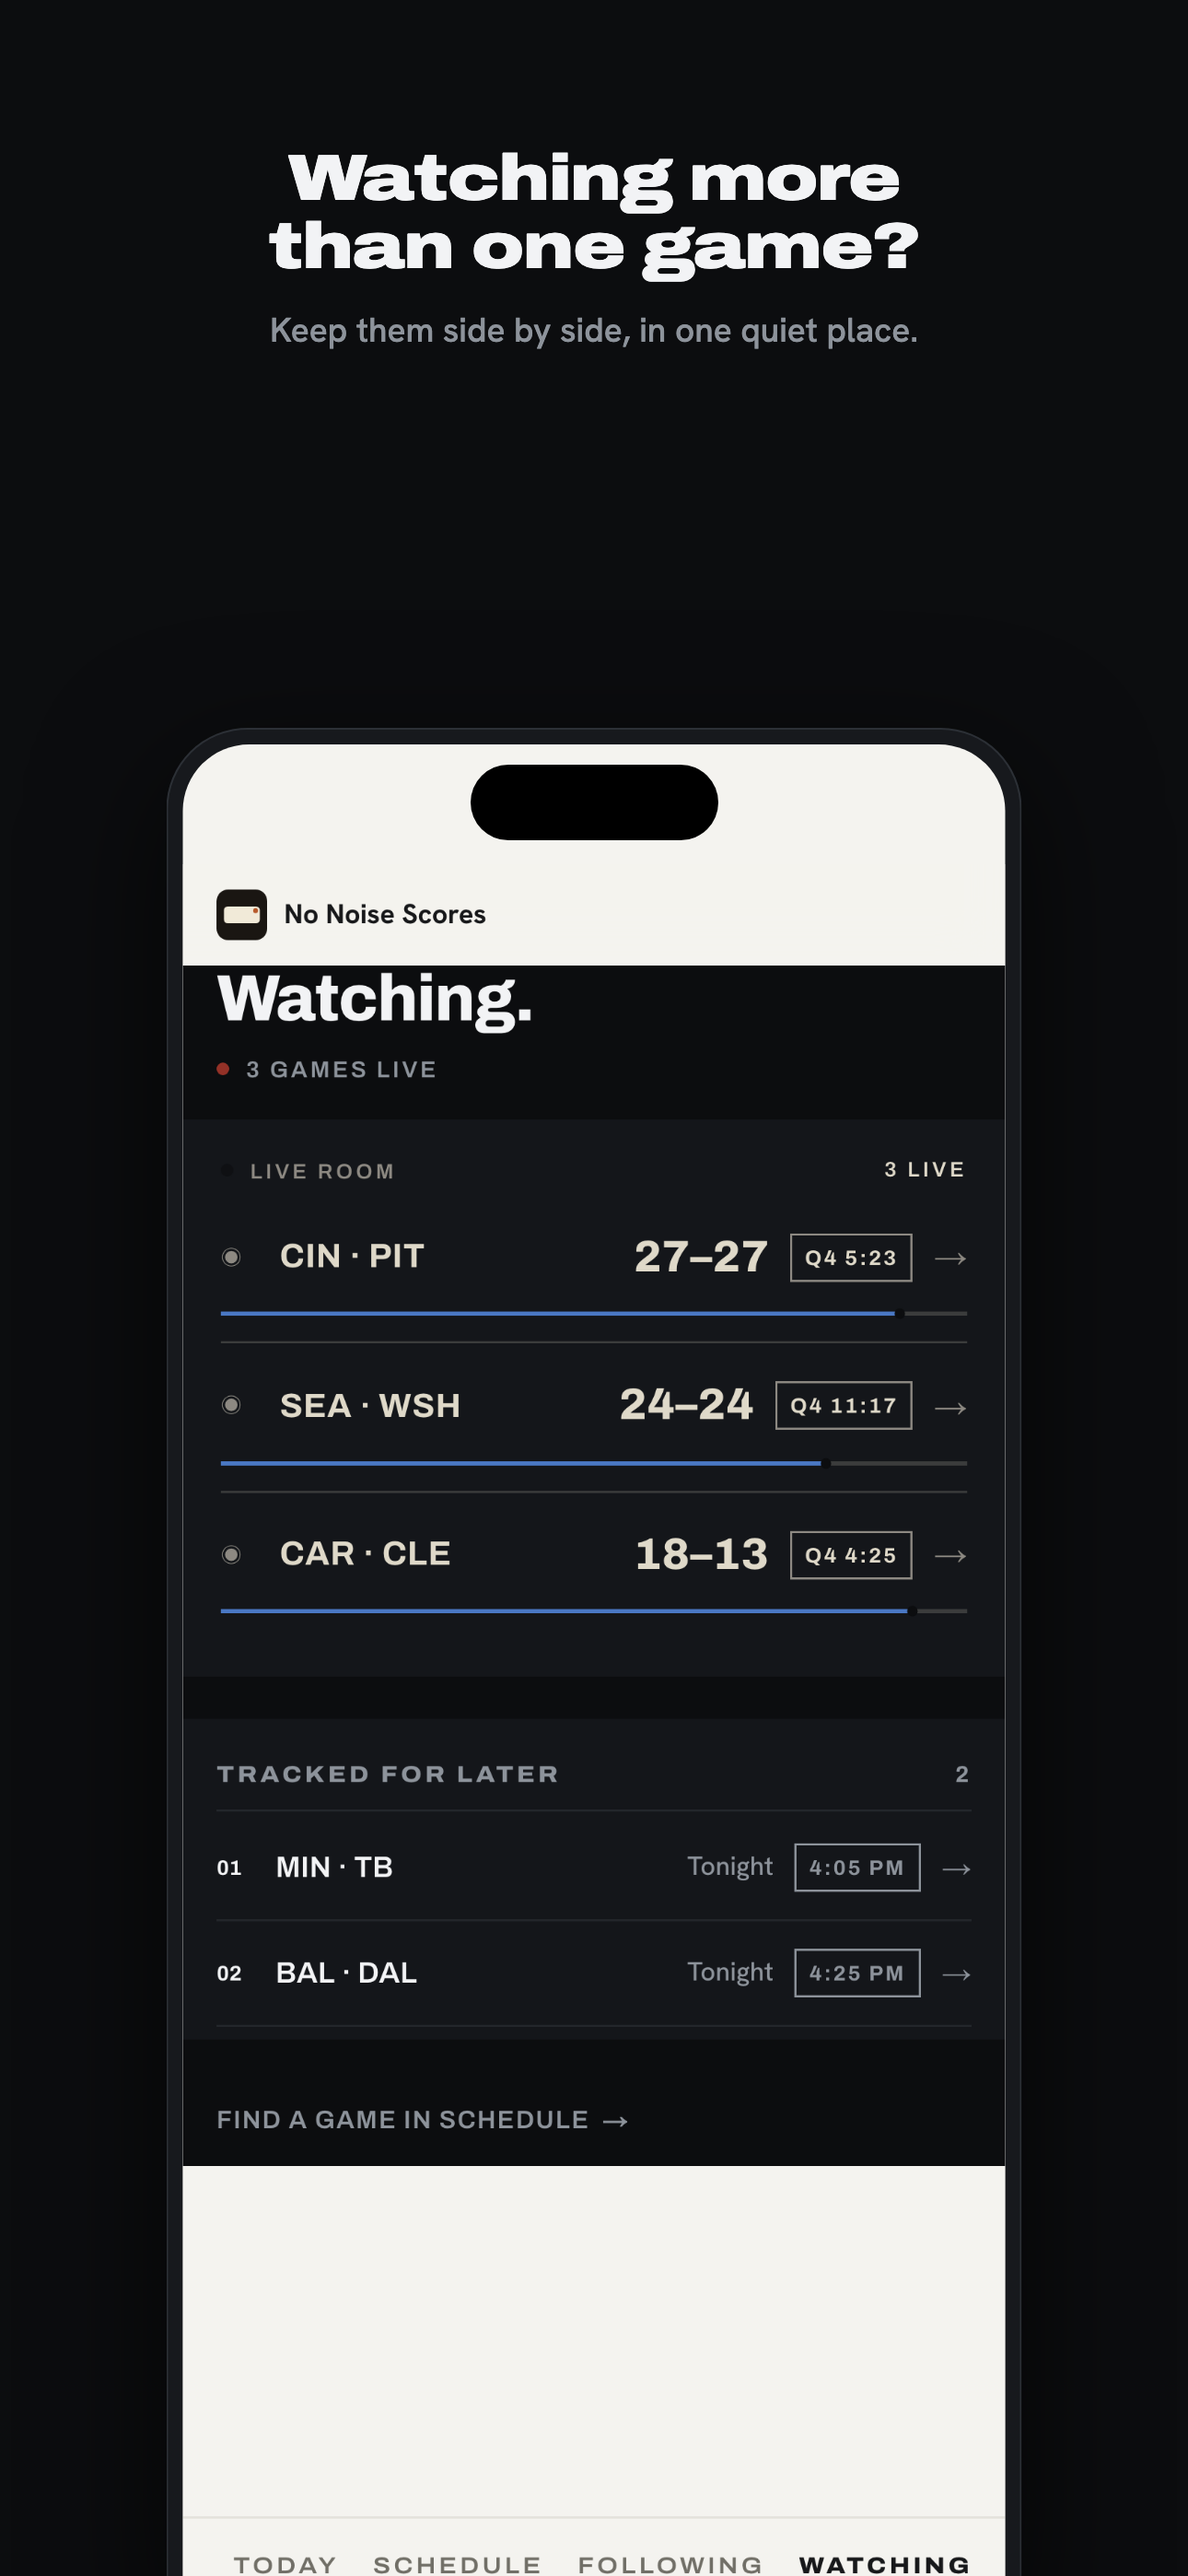
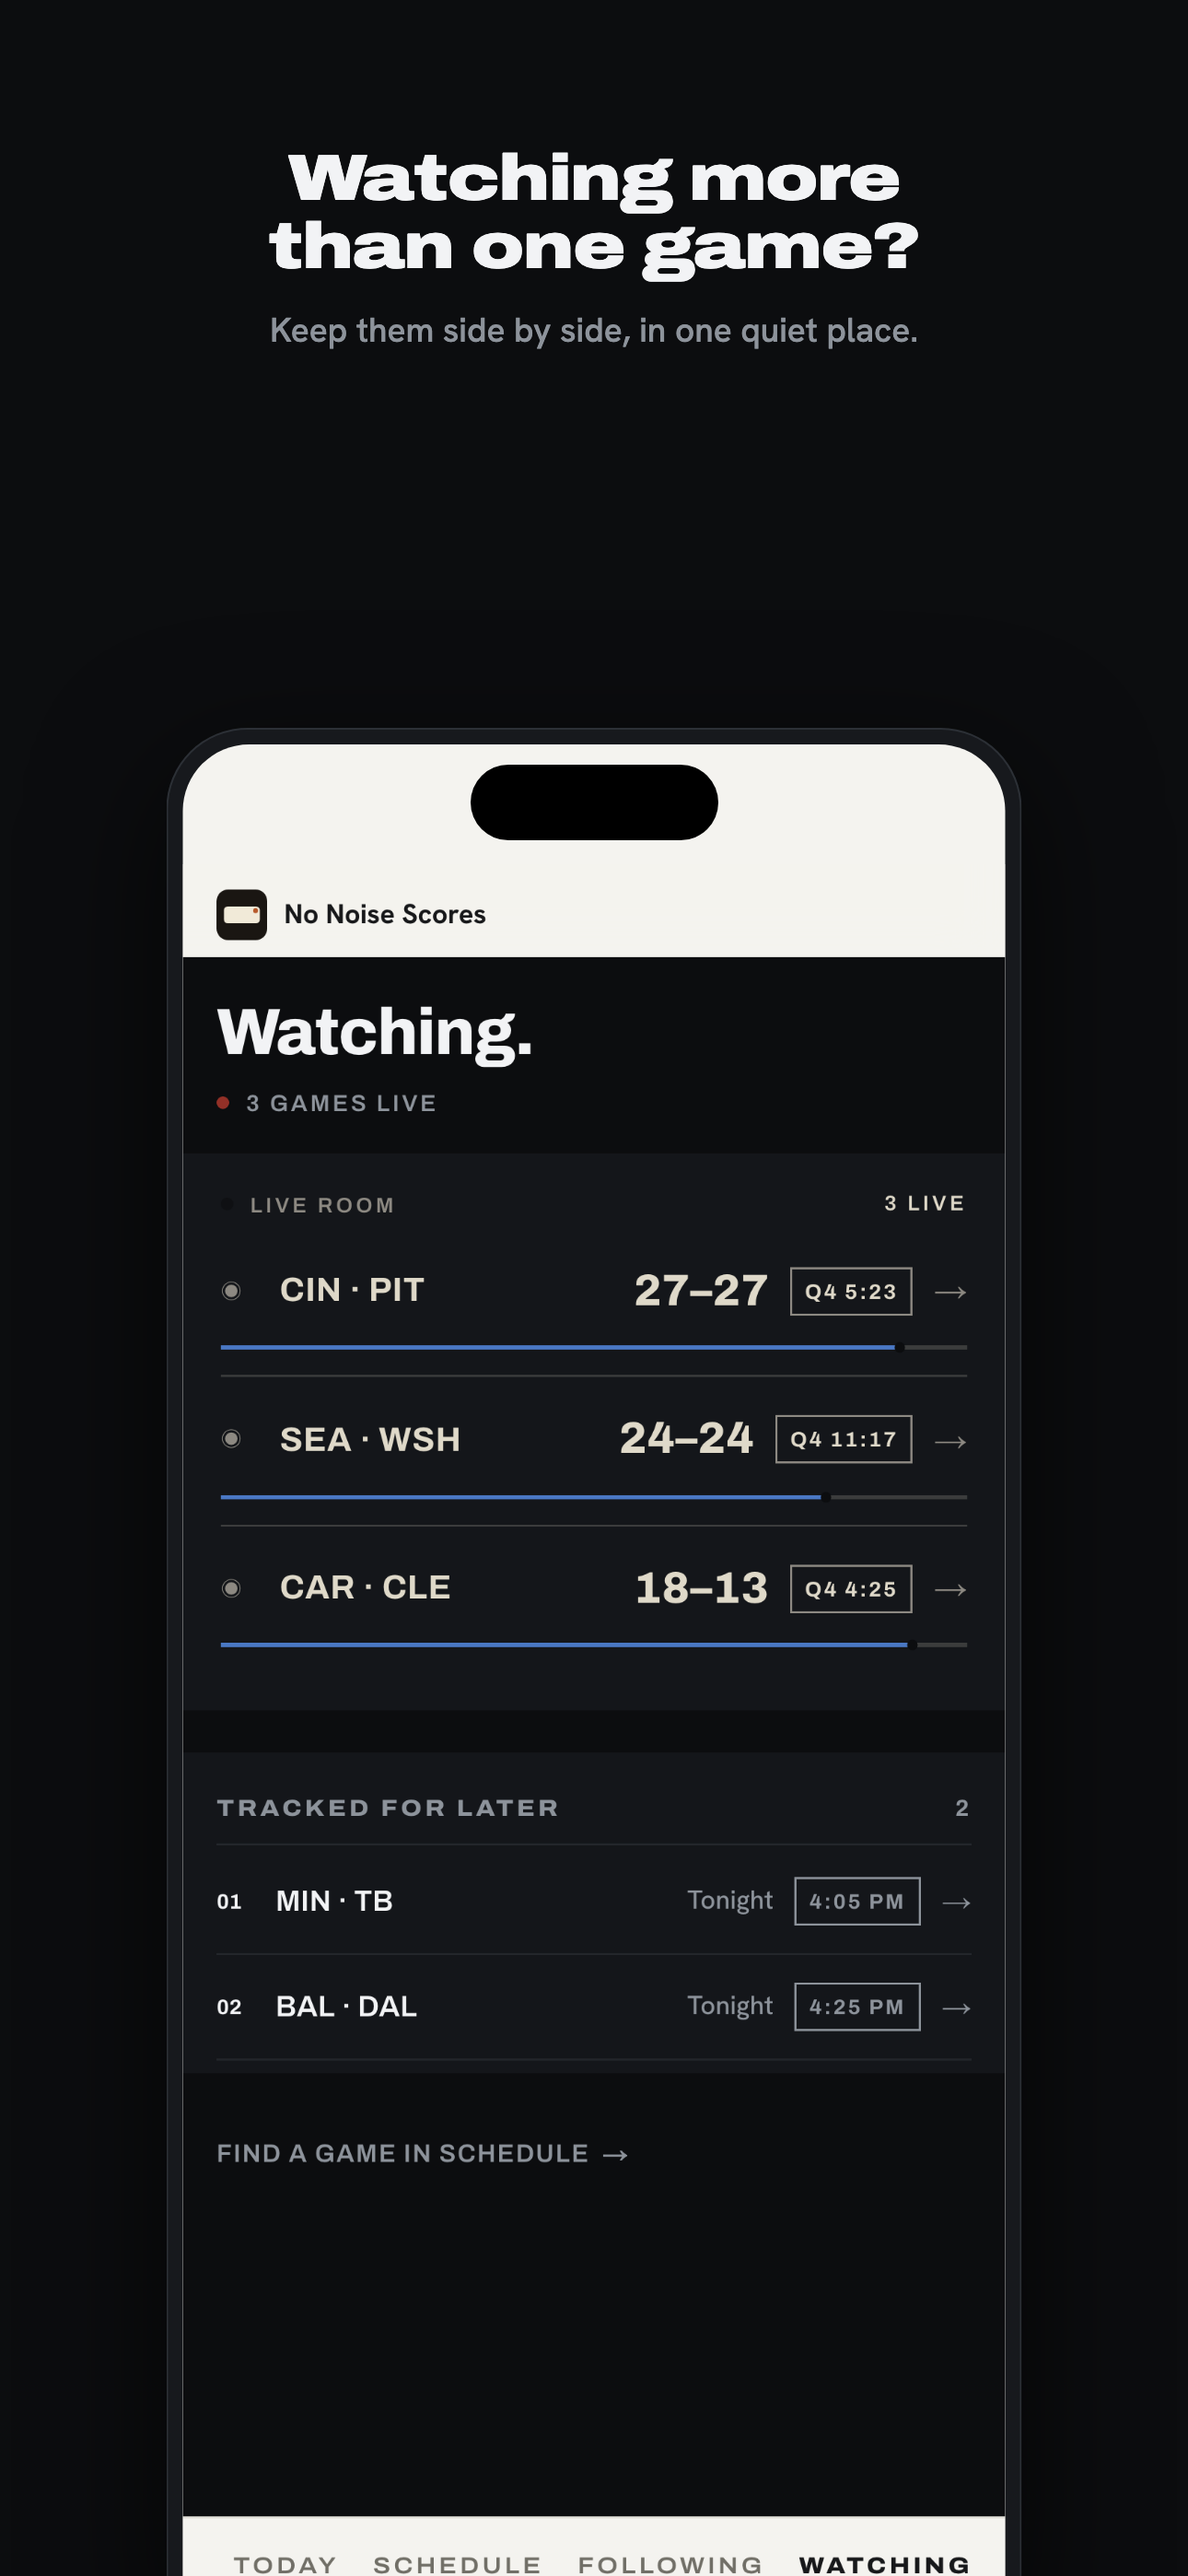
Fix: a live Watching room fills the phone screen
The arena room was exactly as tall as its rows, so on a phone it stopped
early and left a lit band above the tab bar, and the "Watching." title
sat flush against the brand bar. While something tracked is live, the
room now runs from the brand bar's edge down behind the tab bar with
20px above the title. A negative bottom margin hands back the space
<main> and CompanionFrame reserve, so a short room adds no scroll, and
the matching padding keeps the last row clear of the tab bar. Phones
only, live only: the browse state and desktop are unchanged.

Checked at 390x844: room 44 to 836px under a tab bar at 783, page height
844 of 844 (no scroll). A 13-game list scrolls with the last link above
the tab bar. The non-live state is unchanged. Store shot 4 regenerated.

diff --git a/app/globals.css b/app/globals.css
@@ -167,6 +167,25 @@ html, body {
   .nns-room { transition: none; }
 }
 
+/* A live room on a phone fills the screen: from the brand bar's bottom
+   edge down behind the tab bar, instead of stopping at its last row with
+   a lit band underneath, and the title gets space under the brand bar.
+   The negative bottom margin hands back what <main> (16px) and
+   CompanionFrame (tab bar reserve) pad below it, so a short room never
+   adds a scroll. The matching padding keeps the last row clear of the tab
+   bar. The brand bar height is overestimated by a few px on purpose, so
+   any rounding lands under the tab bar instead of showing as a lit band. */
+@media (max-width: 767px) {
+  .nns-room-fill {
+    --room-below: calc(16px + 84px + max(env(safe-area-inset-bottom), 12px));
+    margin-top: -4px;
+    padding-top: 20px;
+    padding-bottom: var(--room-below);
+    margin-bottom: calc(-1 * var(--room-below));
+    min-height: calc(100svh - max(env(safe-area-inset-top), 12px) - 40px);
+  }
+}
+
 /* Courtside C3: the same arena tokens serve two masters — the manual
    whole-app dark toggle (data-theme on <html>) AND the room-scoped
    arena (data-chassis on a subtree). A room flips to the arena while a

diff --git a/app/companion/watching/WatchingClient.tsx b/app/companion/watching/WatchingClient.tsx
@@ -51,7 +51,7 @@ export function WatchingClient() {
   return (
     <div
       data-chassis={arenaLive ? "arena" : undefined}
-      className="nns-room -mx-4 px-4 md:mx-0 md:px-0"
+      className={`nns-room -mx-4 px-4 md:mx-0 md:px-0${arenaLive ? " nns-room-fill" : ""}`}
     >
       <PullToRefresh onRefresh={refetch}>
         <WatchingDashboard payload={payload} />

diff --git a/app/CHANGELOG_PRODUCT.md b/app/CHANGELOG_PRODUCT.md
@@ -16,6 +16,12 @@ current app, porcelain behind the browse shots and arena behind the live
 ones. The live scores in them are a real moment (3:55 PM ET, Sep 27),
 rebuilt from ESPN's play-by-play, so no shot carries an invented score.
 
+Making that set caught a layout bug on phones: a live Watching room
+stopped at its last row, leaving a lit band above the tab bar, and its
+title sat tight against the brand bar. A live room now fills the screen
+down behind the tab bar with space above the title, and never adds a
+scroll on a short list.
+
 ---
 
 ## Courtside reaches the lock screen (C4, built 2026-09-28, pending the owner's look)
